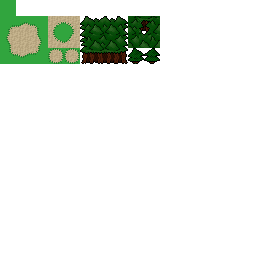
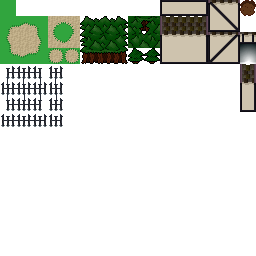
more cave and village graphics

Changed region(s): [[0.625, 0.0, 1.0, 0.4375], [0.0, 0.25, 0.25, 0.5]]

diff --git a/README.md b/README.md
@@ -16,8 +16,8 @@ I want this thing ready to show off at GDEX 2023. Anything not necessary for dem
 
 ### February
 
-- [ ] Cave graphics: ladder, entrance, water
-- [ ] Village graphics: huts, fountain, fences
+- [x] Cave graphics: ladder, entrance, water
+- [x] Village graphics: huts, fountain, fences
 - [x] Illumination
 - [x] Cheese wind-down sound and visual feedback
 - [x] Fire nozzle
@@ -25,6 +25,9 @@ I want this thing ready to show off at GDEX 2023. Anything not necessary for dem
 - [x] Quickie touch input, just for verification on mobile.
 - [ ] Music timing is not tolerable. It's worse on mobile than desktop. Find a better way.
 - [ ] Round-off jitter has returned: Try walking east into the west octopus tree in the eye-of-newt map.
+- [ ] treasure: Sound when picking up an already-have item
+- [ ] treadle: sounds
+- [ ] Need a better solution for shovel holes. eg dig in the packed earth in the village, it shows a grass outline
 
 ### March
 
